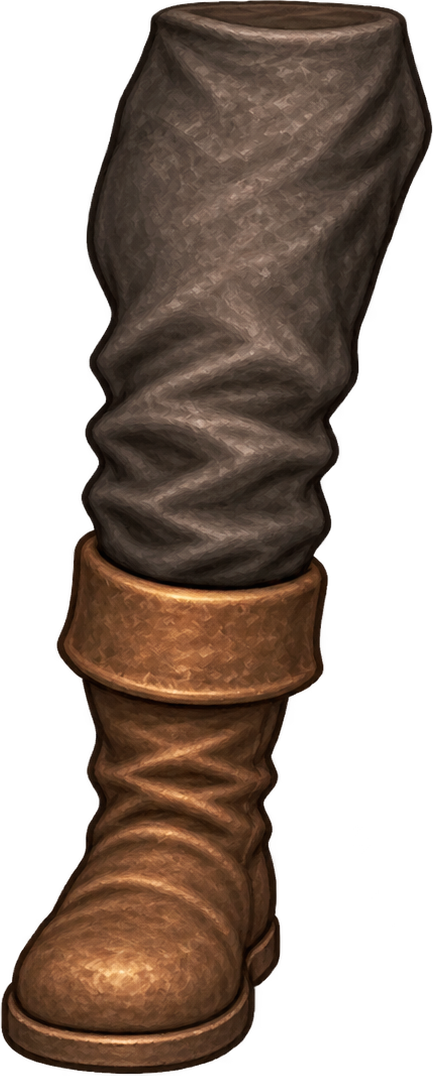
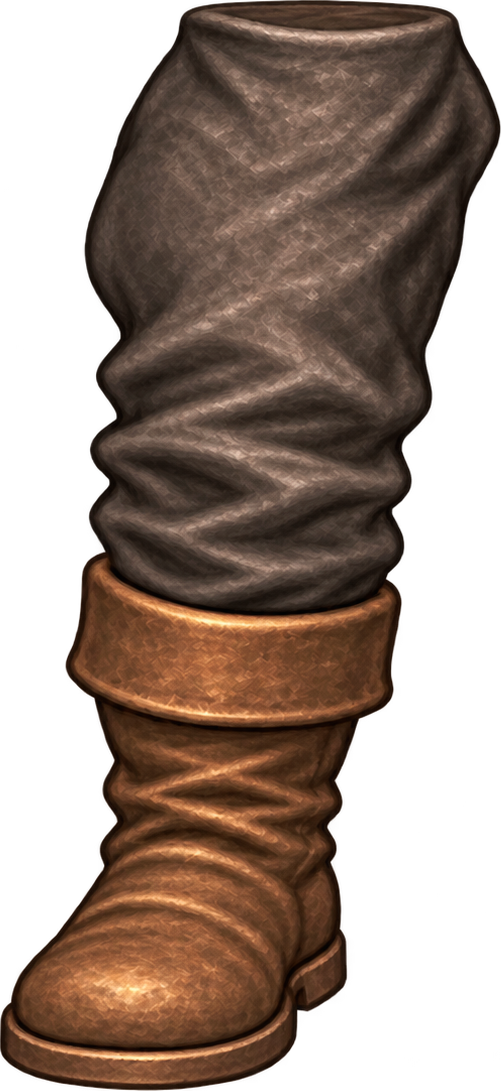
Refine front rat leg proportions and rear shield orientation

Changed region(s): [[0.0, 0.0, 1.0, 1.0], [0.3303, 0.0, 0.3903, 0.0613]]

diff --git a/review/2026-09-25-rat-shield/assembly.js b/review/2026-09-25-rat-shield/assembly.js
@@ -2,7 +2,7 @@ const $=id=>document.getElementById(id);
 const base='./assets/whole-torso-v3/';
 const manifest=await fetch(base+'manifest.json').then(r=>{if(!r.ok)throw Error('Manifest missing');return r.json()});
 const defaults=structuredClone(manifest.views), views=manifest.views, images={};
-const storageKey='stormwatch-rat-whole-torso-v3-forward-guard-final';
+const storageKey='stormwatch-rat-whole-torso-v3-fuller-front-rear-inner';
 try { const saved=JSON.parse(localStorage.getItem(storageKey)||'null'); for(const [name,v] of Object.entries(views)){const old=saved?.[name];if(!old)continue;for(const k of ['scale','x','y'])if(Number.isFinite(old.up?.[k])&&(k!=='scale'||old.up[k]>0))v.up[k]=old.up[k];if(Number.isFinite(old.legScale)&&old.legScale>0)v.legScale=old.legScale;v.legs.forEach((l,i)=>{for(const k of ['x','y','rotation'])if(Number.isFinite(old.legs?.[i]?.[k]))l[k]=old.legs[i][k];});}}catch{}
 let direction='side', switching=false, started=0;
 async function load(file){const im=new Image();im.src=base+file;await im.decode();return im;}

diff --git a/review/2026-09-25-rat-shield/assets/whole-torso-v3/README.md b/review/2026-09-25-rat-shield/assets/whole-torso-v3/README.md
@@ -11,3 +11,5 @@ Generated with native ImageGen, 25 September 2026. Not approved or referenced by
 Exact prompts are in `../../whole-torso-prompts.json`; final side/front torso edits use `../../whole-torso-correction-prompts.json`. The final front guard uses `../../front-guard-prompts.json` (forward outer face, hidden carrying arm, then shield-size correction). Side legs use the correction prompt. Native PNG sources remain locally ignored under `assets/source/reboot/rat-whole-torso-v3/`. The preparation script accepts the native generation directory as a command argument, preserving original files. It crops and encodes only; it does not repaint or remove backgrounds.
 
 Review all directions, frame identity, shield height, paired boot anatomy, hip overlap and small-size readability. Fine-detail consistency is not guaranteed by generation or automated checks. The prior separate-arm v2 candidates are rejected historical evidence.
+
+Latest front leg proportions and rear inner-shield pose use `../../proportions-rear-prompts.json`. Front hip centers are 350 and 500 in original torso pixels. Rear leg textures and transforms are unchanged. Rear guard presents the broad inner shield face with straps and raised forearm, corresponding to the outward front guard.

diff --git a/docs/decisions/011-rat-shield-cutout-motion.md b/docs/decisions/011-rat-shield-cutout-motion.md
@@ -21,3 +21,5 @@ The game retains the original rat appearance and behavior. Guard damage, sound a
 Original down files are byte-identical copies. Native generated alpha is retained in lossless WebP crops. Prompts, native source hashes, crop rectangles and fixed assembly transforms are retained with the review assets. Inspect all three assembled views and the frame switch before integration. Automated checks do not constitute art approval.
 
 Front guard anatomy: the raised shield presents its flat outer face toward the viewer. The carrying hand and forearm are hidden behind it; never paint a hand on the outward shield face.
+
+Review refinement: front legs need fuller proportions and hip spacing consistent with the belt width. Rear guard must show the broad inner shield face and raised carrying arm, matching the forward-facing shield plane. Preserve the reviewed rear leg proportions.
